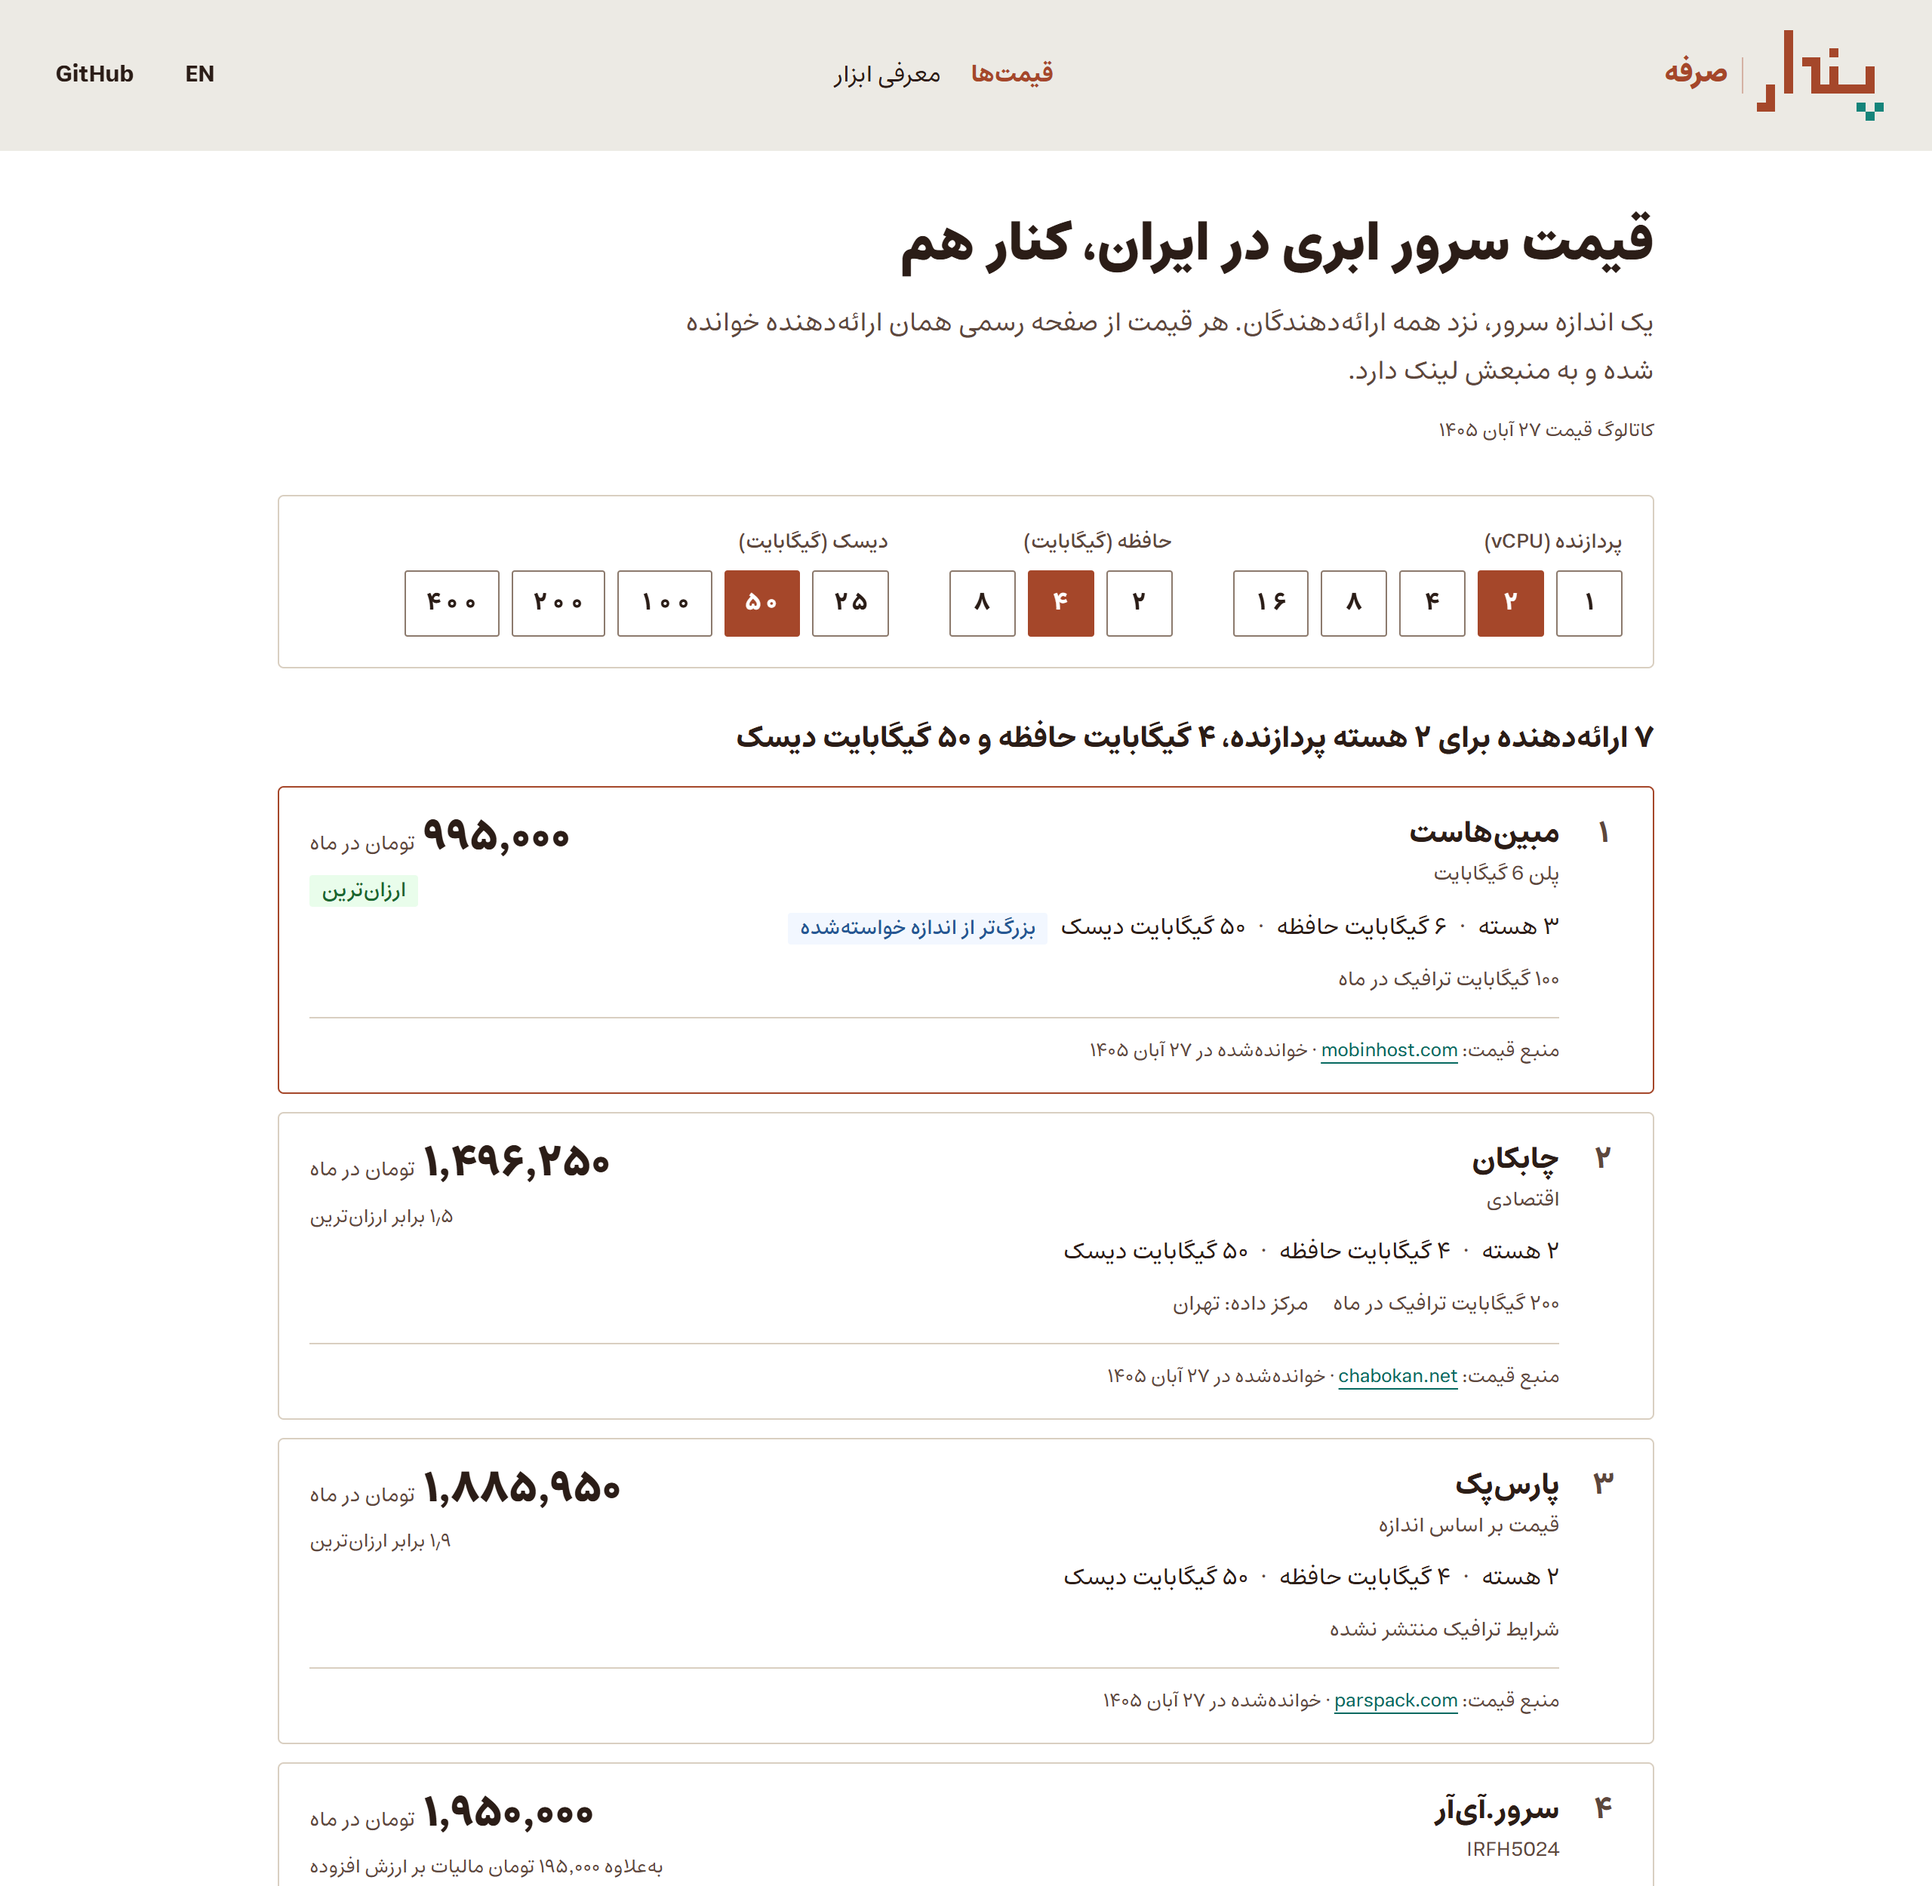
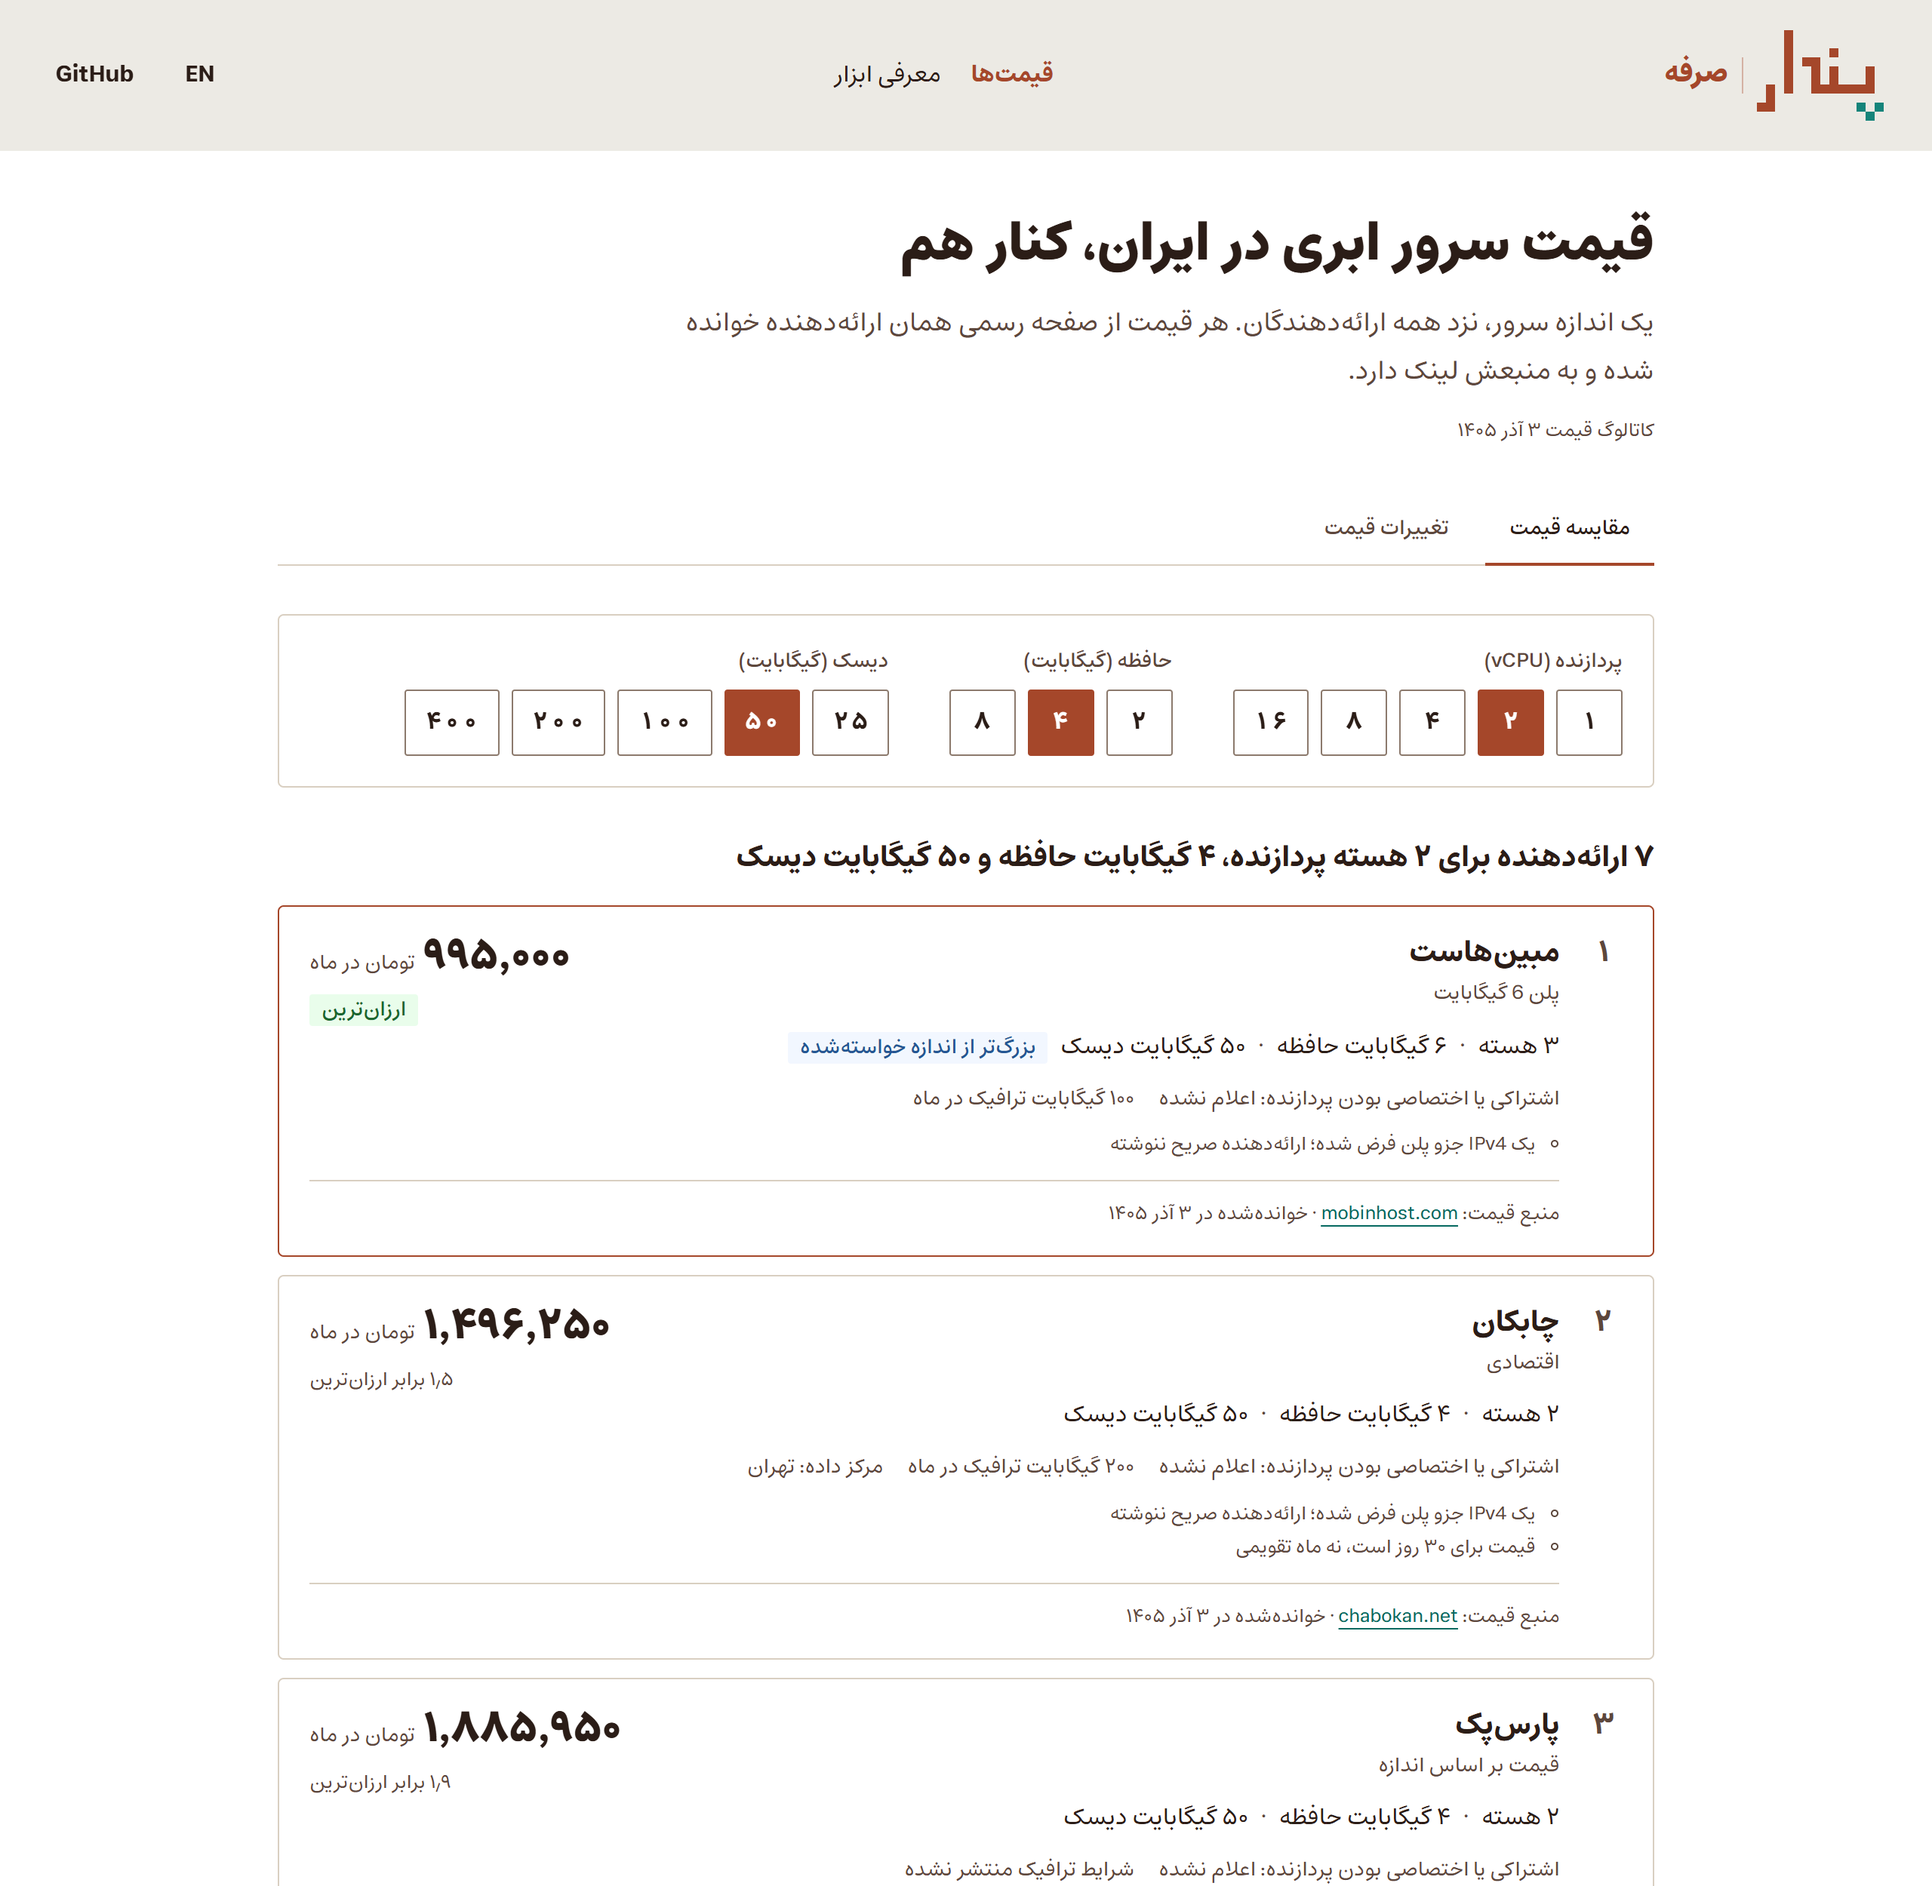
Release 0.5.0
The CPU model of each server and the CPU time its host takes away; ArvanCloud's prices of 24 November as a reviewed
price file; on the public price page, the conditions behind each figure and a tab that records price changes.
README screenshots of the price page as it is now.

diff --git a/apps/api/finops_api/main.py b/apps/api/finops_api/main.py
@@ -24,7 +24,7 @@ log = logging.getLogger("finops.api")
 def create_app() -> FastAPI:
     configure_logging()
     s = get_settings()
-    app = FastAPI(title="Sarfeh API", version="0.4.0",
+    app = FastAPI(title="Sarfeh API", version="0.5.0",
                   description="Iran-first FinOps. All prices/savings come from the deterministic engine; "
                               "money fields are exact decimal strings in Toman.")
     app.add_middleware(CORSMiddleware, allow_origins=s.cors_origins, allow_credentials=False,

diff --git a/docs/releases/v0.5.0.md b/docs/releases/v0.5.0.md
@@ -1,0 +1,52 @@
+Sarfeh 0.5.0 shows what can be known about the hardware under a server, and brings the price page what its first
+readers asked for.
+
+## Added
+
+- **The CPU model of each server, and the CPU time its host takes away.** The Servers page shows the processor each
+  server reports (or says that the host hides it), and the share of its CPU time the host gave to other machines, as
+  a 95th percentile. From 10% it warns: the host is oversold, and the server is slower than its size suggests. CPU
+  use still includes that time, so a server starved by its host is never advised to shrink.
+- **ArvanCloud's prices of 24 November 2026**, about 20% above the ones the catalog starts with. ArvanCloud's site
+  can't be read automatically, so they come as a reviewed price file. To apply it:
+
+  ```bash
+  sudo sarfeh compose exec api python -m finops_api.cli price-import --provider arvancloud \
+    --file /app/data/price-files/arvancloud-2026-11-24.json
+  ```
+
+On the public [price page](https://pendarsolutions.ir/sarfeh/prices/):
+
+- **What each figure assumes or leaves out** is written under it: an IPv4 address assumed to come with the plan (or
+  its price where one is charged), a price that is for 30 days, ParsPack's setup fee equal to 7 days.
+- **Price changes** have their own tab: which provider moved which plan, from what to what, and when. The same
+  record is open as [changes.json](https://pendarsolutions.ir/sarfeh/changes.json).
+- It says when a provider doesn't state whether its CPU is shared or dedicated, and shows the CPU model beside a
+  plan once a user has [reported it](https://github.com/{{REPO}}/issues/new?template=cpu-model.md).
+
+## Fixed
+
+- **ParsPack prices stopped updating** when one of its datacenters listed its control-panel licences at another
+  price. Only the CPU, memory and disk prices that are read are compared now.
+- Server.ir's retired IRAT plans no longer raise a warning on every price update.
+
+## After upgrading
+
+Servers you added before this version keep the older collector script, which doesn't read the CPU model or the
+host's share. Run the setup command from the **Servers** page on each of them once more (it is safe to repeat), and
+both appear from the next collection. The page says which servers need it.
+
+## Upgrade
+
+```bash
+sudo sarfeh upgrade
+```
+
+It backs up first, then moves to 0.5.0 and keeps your settings and data. On 0.3.x the command is still called
+`finops-agent` (`sudo finops-agent upgrade`); from 0.2.0 or earlier, run the installer:
+
+```bash
+curl -fsSL https://github.com/{{REPO}}/releases/download/v{{VERSION}}/install.sh | sudo bash
+```
+
+The full list of changes is in the [changelog](https://github.com/{{REPO}}/blob/v{{VERSION}}/CHANGELOG.md).

diff --git a/README.md b/README.md
@@ -25,9 +25,15 @@ Install it on one server and see the real cost and usage of all of them.
 
 Not ready to install anything? The [prices page](https://pendarsolutions.ir/sarfeh/prices/) shows one server size at
 every provider, cheapest first, read from each provider's own page twice a day, with the source and the date beside
-every price. The table behind it is open: [prices.json](https://pendarsolutions.ir/sarfeh/prices.json).
+every price, and what each figure assumes or leaves out. The table behind it is open:
+[prices.json](https://pendarsolutions.ir/sarfeh/prices.json).
 
 <p align="center"><img src="docs/images/prices.png" alt="The prices page: 2 vCPU, 4 GB and 50 GB at seven providers, cheapest first, each with its plan, traffic terms, source and the date it was read" width="900"></p>
+
+Its second tab, [price changes](https://pendarsolutions.ir/sarfeh/prices/?view=changes), records every change those
+reads find: which provider moved which plan, from what to what, and when.
+
+<p align="center"><img src="docs/images/price-changes.png" alt="The price changes tab: a filter by provider, and for each change a table of plan, price before, price after and the percent" width="900"></p>
 
 ## Why Sarfeh?
 
@@ -194,6 +200,8 @@ docs/           Architecture, pricing model, scrapers, AI safety and operations
 - [x] Shared, signed price catalog
 - [x] Spend ledger: payments by month, a monthly cost estimate, and the gaps between them
 - [x] Owners and budgets per team, with alerts before a budget runs out
+- [x] The CPU model of each server, and the CPU time its host takes away
+- [x] A public record of price changes
 - [ ] Suggestions that are tracked to done, with the saving measured
 - [ ] A monthly report by email or Bale
 - [ ] An exact catalog for ArvanCloud through its API

diff --git a/CHANGELOG.md b/CHANGELOG.md
@@ -5,12 +5,17 @@ and versions follow [Semantic Versioning](https://semver.org/). Until 1.0, a min
 
 ## [Unreleased]
 
+## [0.5.0] — 2026-11-24
+
+What users of the price page asked for: the conditions behind each figure, a record of price changes, and what can
+be known about the hardware under a plan.
+
 ### Added
 
 - **A record of price changes.** Whatever a refresh of the public table changes (prices and sizes that moved, plans
-  that appeared or left) is kept as an event, published as `changes.json` and shown on the price page under "Latest
-  price changes". With a bot token and a channel in `notify.json`, each event is also posted once to Telegram and
-  Bale (`scripts/price_feed.py`).
+  that appeared or left) is kept as an event, published as `changes.json` and shown on the price page's second tab:
+  a filter by provider, and for each change a table of plan, before, after and percent. With a bot token and a
+  channel in `notify.json`, each event is also posted once to Telegram and Bale (`scripts/price_feed.py`).
 - **CPU models reported by users** (`data/hardware/cpu-reports.json`) appear beside the plan they were found on, with
   the report's date; a stand-in name such as `QEMU Virtual CPU` is shown as "the host hides the CPU model".
 - **Servers: the CPU model, and the CPU time the host takes away.** The collector (version 2) also reads the
